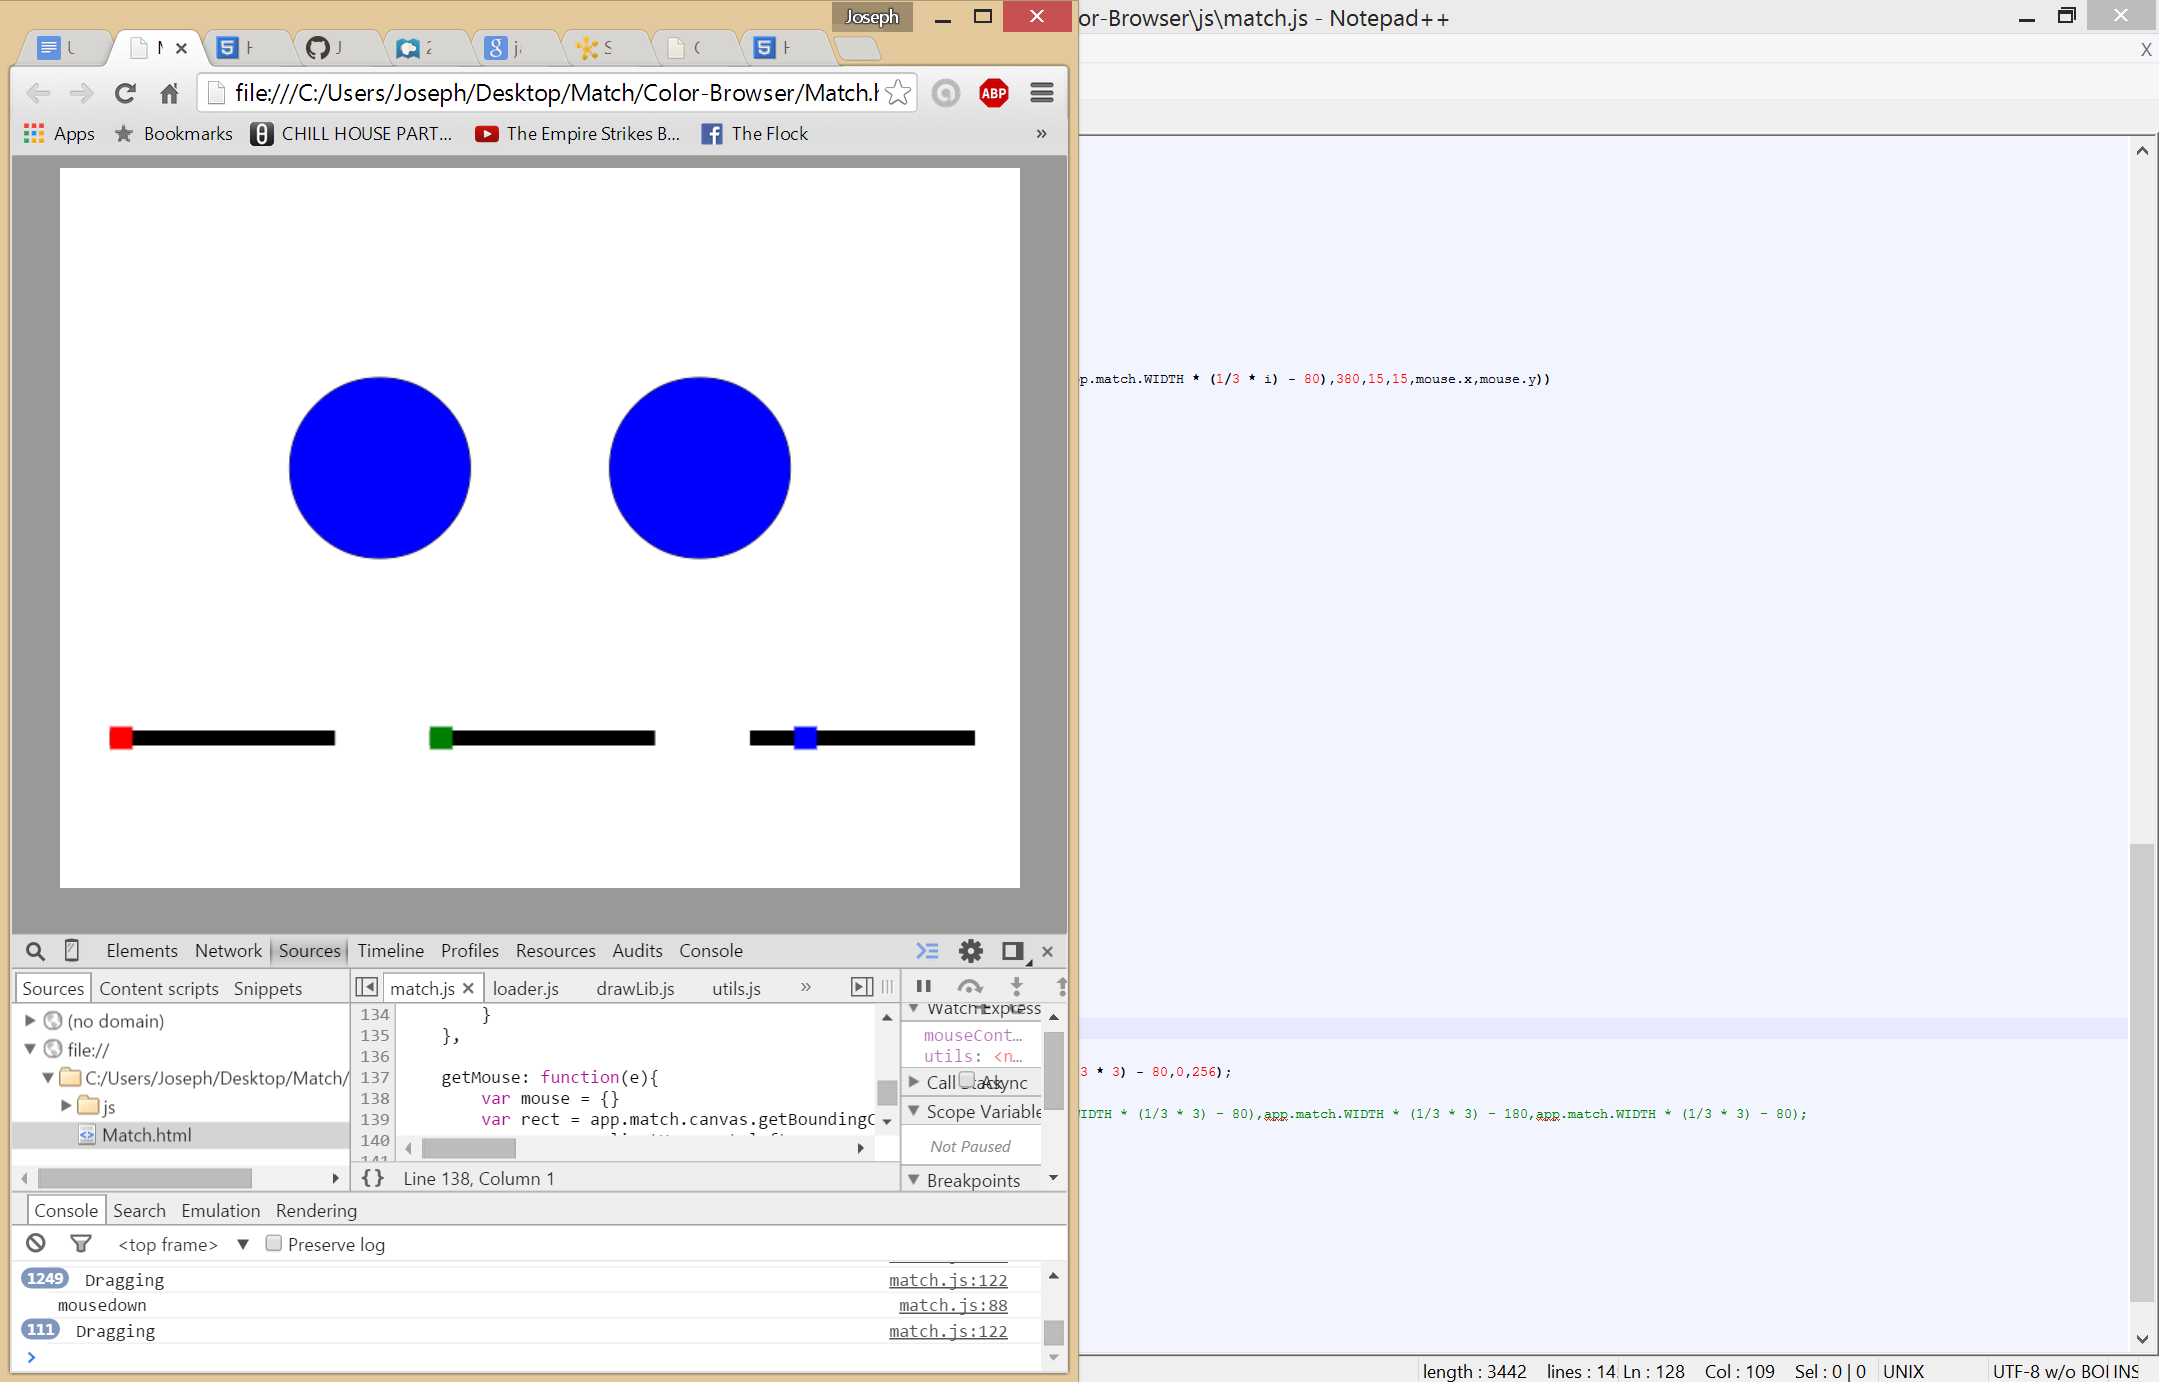
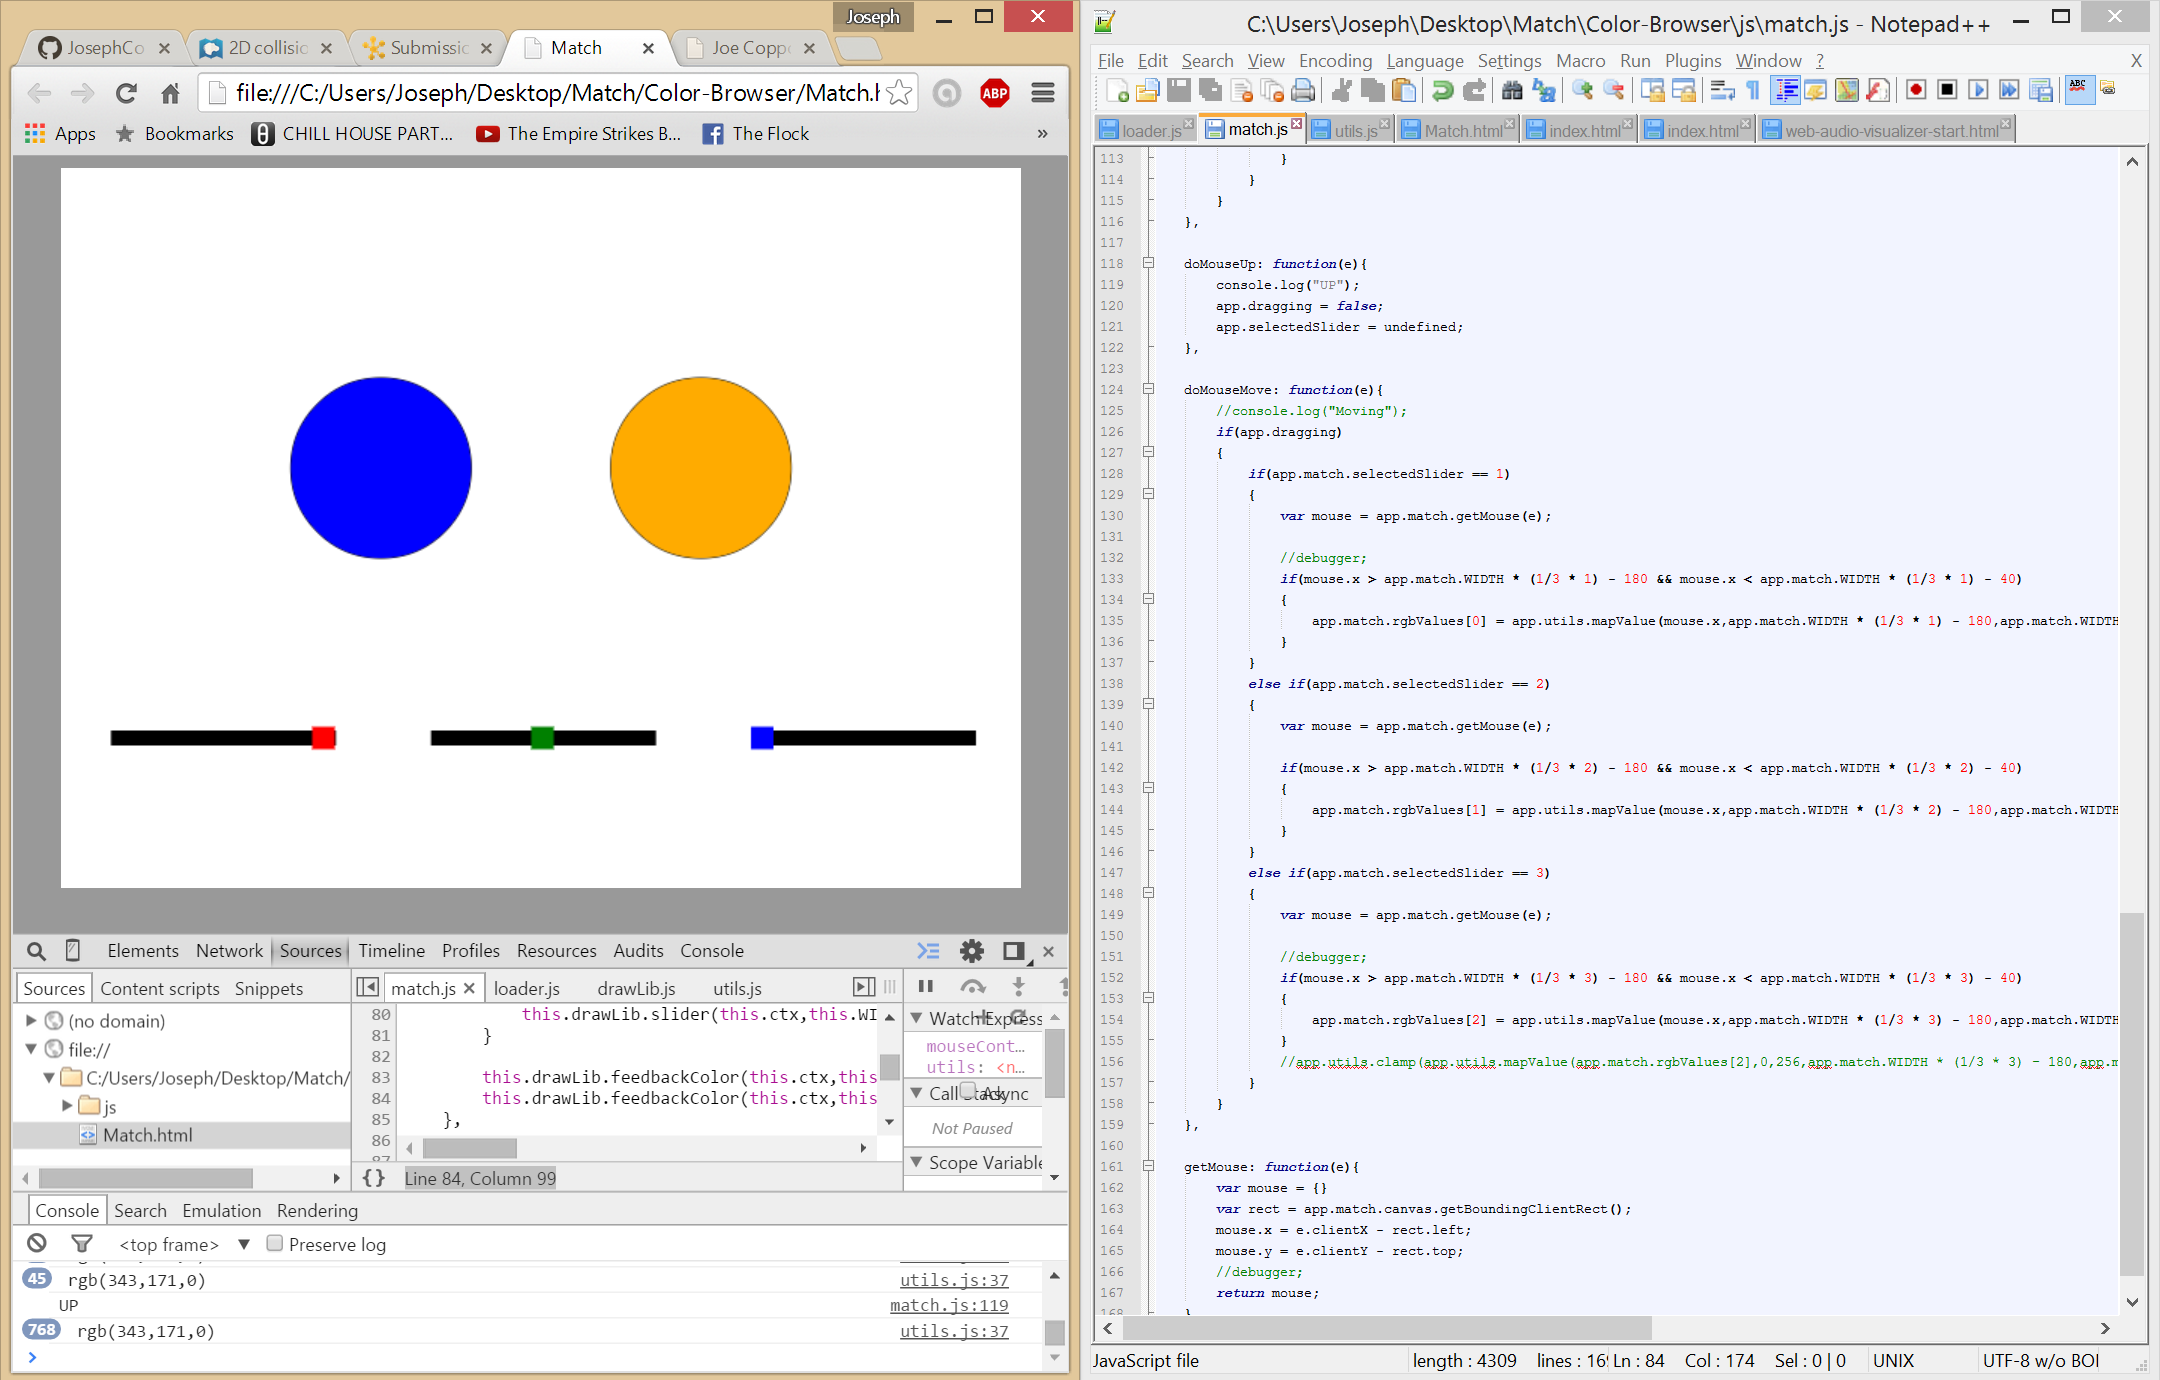
Milestone Documentation

diff --git a/index.html b/index.html
@@ -109,8 +109,9 @@
 			<a href = "match.html" style = "padding-left: 8.45cm;">Click here for Milestone1</a>
 			<p>For this first milestone I established a majority of the game modules and began flushing out the draw code. This game is going to use in canvas sliders, so I started working on the code for the sliders to adjust accordingly.
 			One function I created was the mapValue function, that takes the value between two numbers and converts it properly to a different range. I started working out how the sliders would display, as well as the circles. One circle
-			is going to be the color one has to guess, while the second circle will reflect the RGB values you have selected. At the moment it is set up as placeholders, but in time will reflect the proper color. At this moment, the only slider
-			that sort of works is the blue slider. The collision detection is a bit broken too, so that needs to be worked out. But the basic idea is set and laid out.</p>
+			is going to be the color one has to guess, while the second circle will reflect the RGB values you have selected. At the end of this milestone, the user
+			color circle updates correctly based off the in game sliders. The sliders work using a mouseContains method that checks if the mouse is clicking on the respective slider. By the next milestone I hope to have a UI laid out and nearly finished,
+			as well as at least one game mode flushed out and finished.</p>
 			
 		</div>
 	</div>
